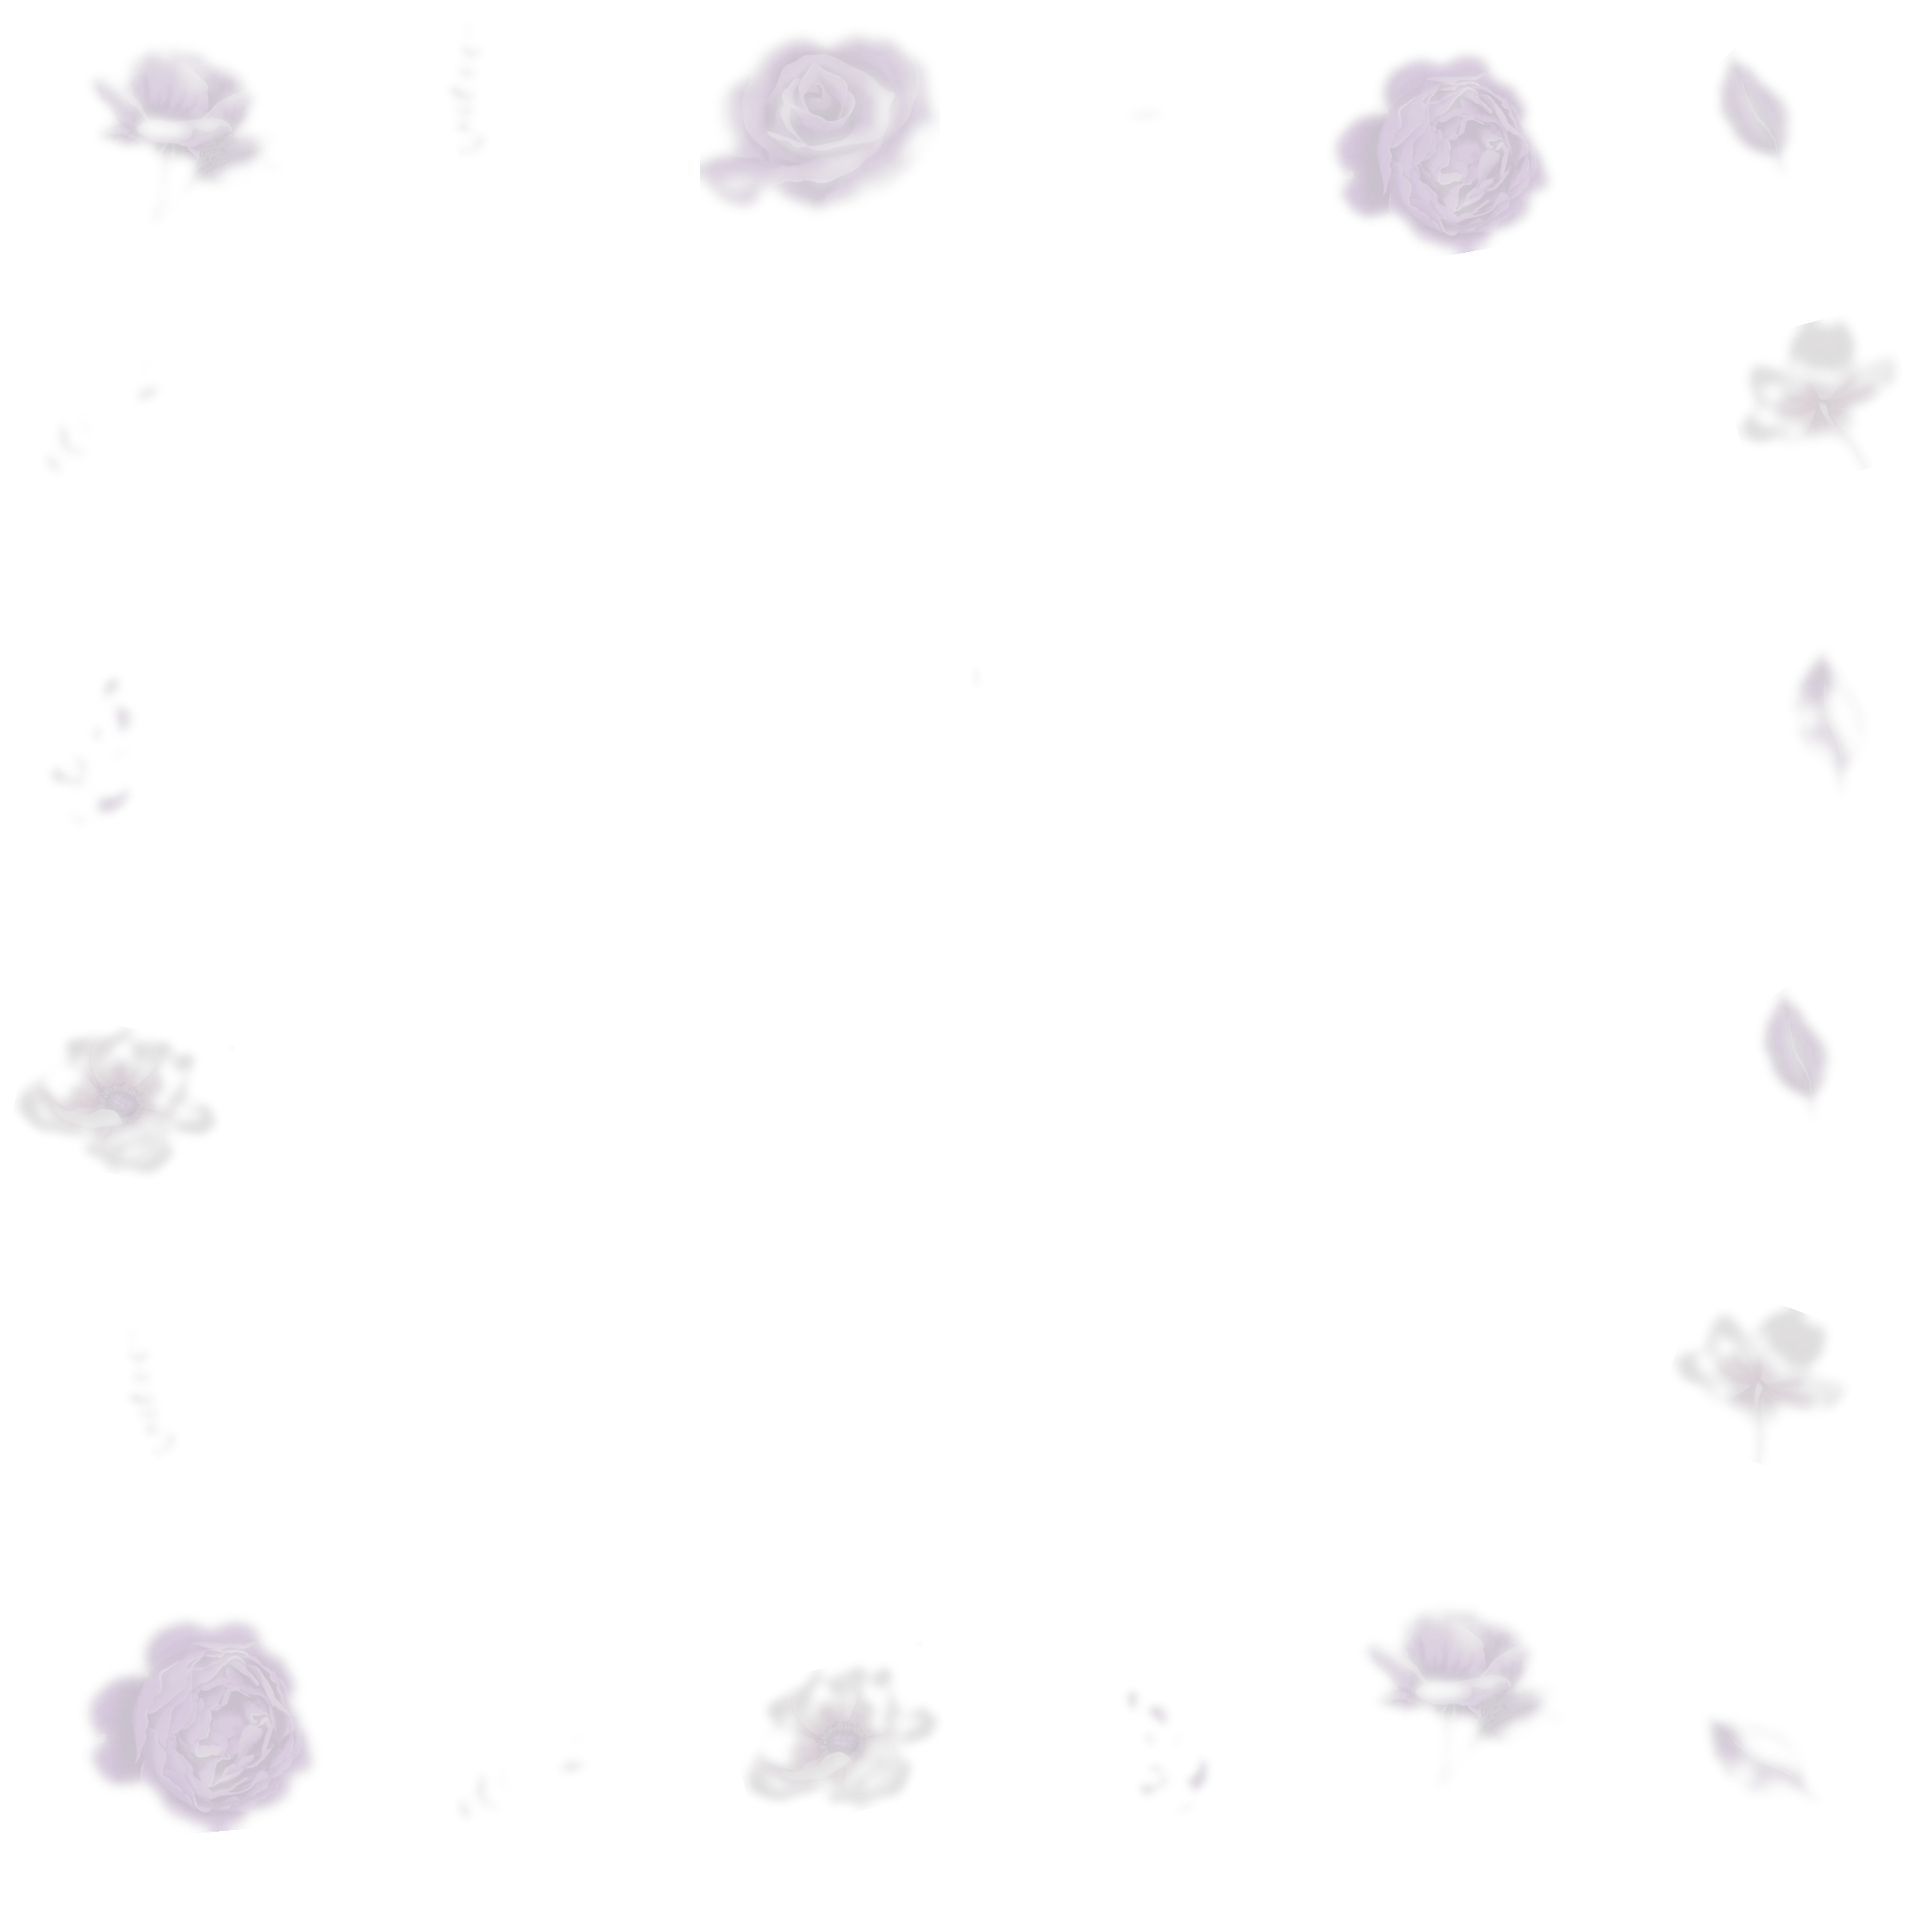
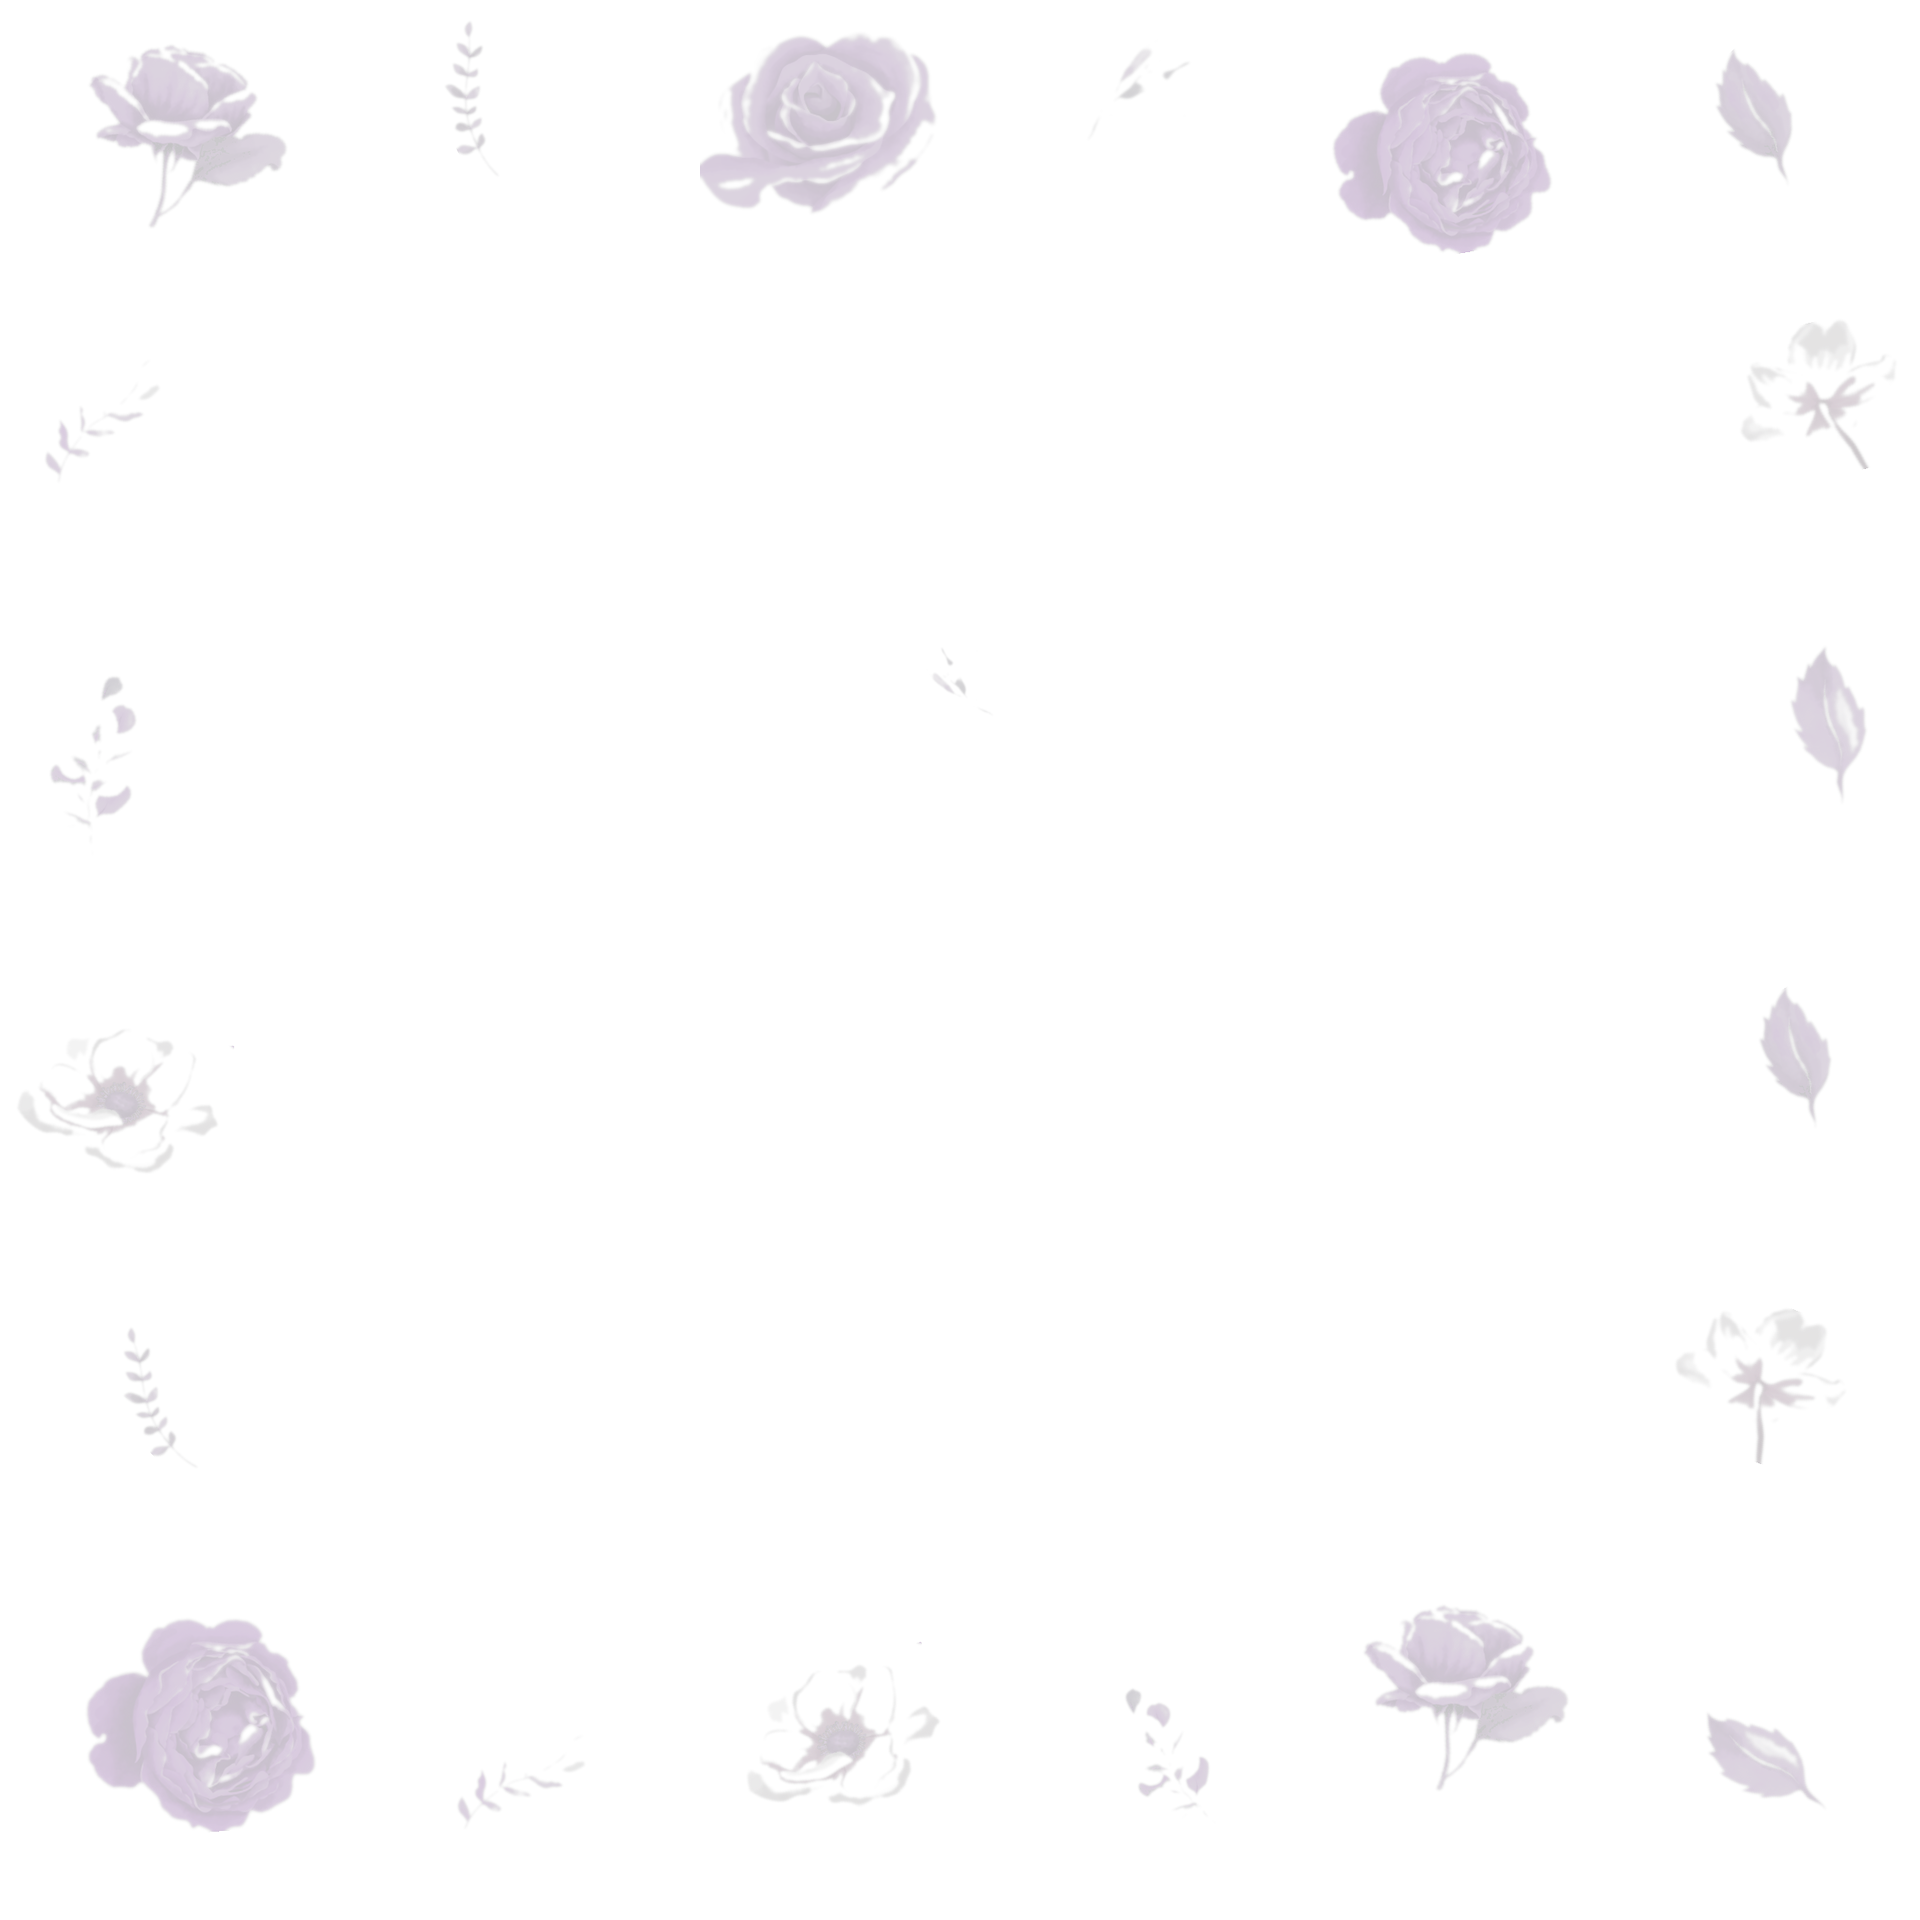
Fix flower bg: aggressive gray removal (color-distance threshold 45/70 from #CCC), switch to cover+center so flowers aren't stretched on desktop.
BUILD 4.2.40

diff --git a/frontend/src/index.css b/frontend/src/index.css
@@ -229,6 +229,7 @@
   inset: 0;
   background: var(--aria-page-bg, var(--aria-surface));
   background-size: var(--aria-page-bg-size, 100%);
+  background-position: var(--aria-page-bg-pos, 0 0);
   z-index: -1;
   pointer-events: none;
 }
@@ -338,7 +339,8 @@ body {
     radial-gradient(ellipse 65% 55% at 100% 100%, rgba(175, 145, 205, 0.30) 0%, transparent 60%),
     radial-gradient(ellipse 60% 60% at 0% 100%, rgba(160, 130, 190, 0.22) 0%, transparent 70%),
     linear-gradient(to bottom, #FAF7FC 0%, #F5F0F8 100%);
-  --aria-page-bg-size: 100% 100%, 100% 100%, 100% 100%, 100% 100%, 100% 100%, 100% 100%;
+  --aria-page-bg-size: cover, 100% 100%, 100% 100%, 100% 100%, 100% 100%, 100% 100%;
+  --aria-page-bg-pos: center center, 0 0, 0 0, 0 0, 0 0, 0 0;
 }
 
 /* Paper grain over watercolor — simulates pigment sitting in paper fibers */
